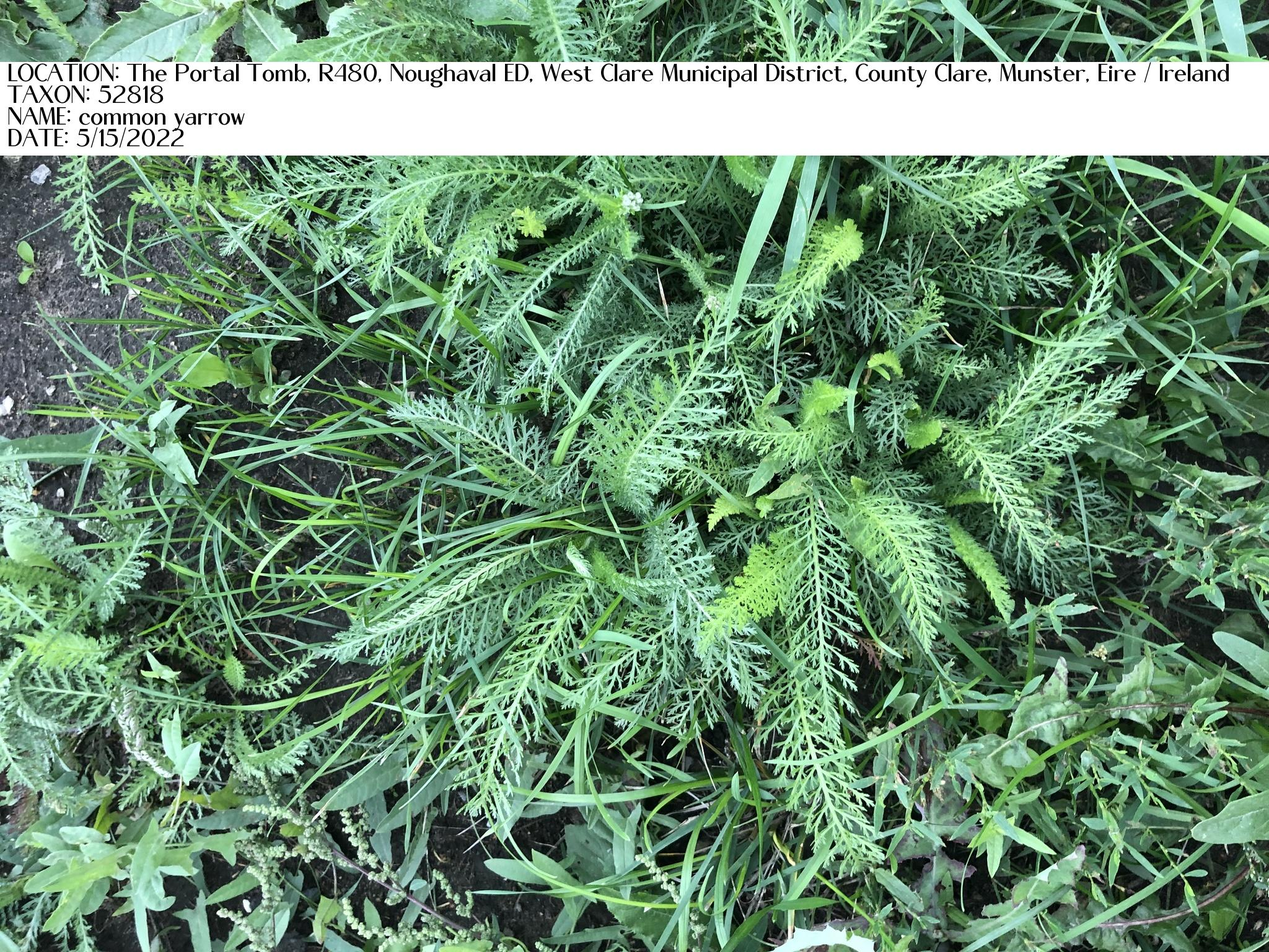
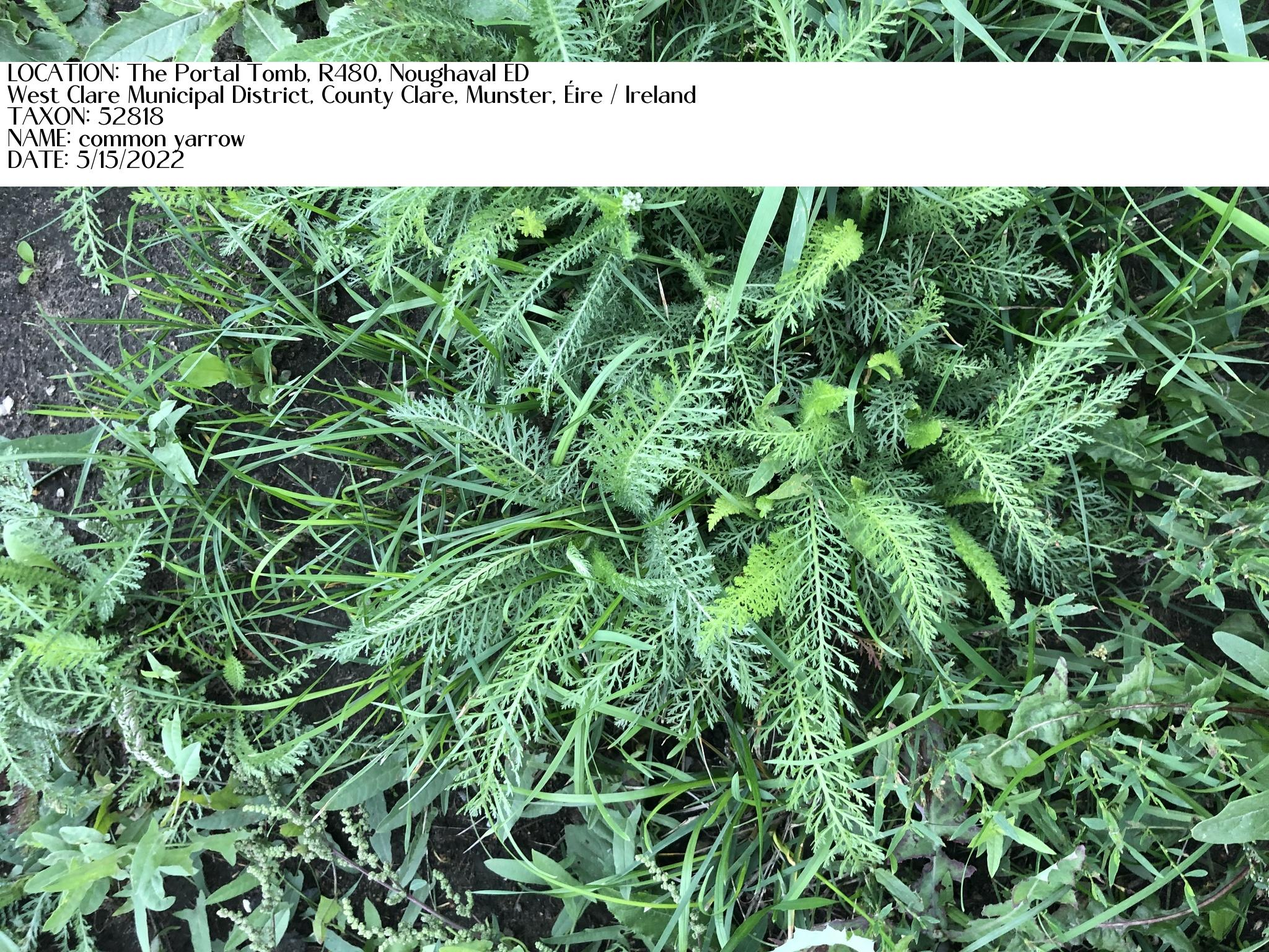
updated image text sizing and tested

Changed region(s): [[0.0, 0.0625, 1.0, 0.2188]]

diff --git a/modules/image_handler/__init__.py b/modules/image_handler/__init__.py
@@ -31,7 +31,7 @@ def determine_text_size(size):
 
 
 def determine_rectangle_size(size):
-    return (width, 250)
+    return (width, 300)
 
 
 def determine_text_position(size):
@@ -46,7 +46,7 @@ def built_image_text(location, taxon, name, date_of_image):
     return f' LOCATION: {location} \n TAXON: {taxon} \n NAME: {name} \n DATE: {date_of_image}'
 
 
-def write_to_image(image_location, image_destination, text_to_write, size):
+def write_to_image(image_location, image_destination, text_to_write, size, debug = None):
     rectangle_size = determine_rectangle_size(size)
     text_size = determine_text_size(size)
     position = determine_position(size)
@@ -56,6 +56,8 @@ def write_to_image(image_location, image_destination, text_to_write, size):
     d1 = ImageDraw.Draw(img)
     d1.rectangle((rectangle_size, position), fill="white")
     d1.text(text_position, text_to_write, font=ImageFont.truetype(FONT_LOCATION, text_size), fill=(0, 0, 0))
+    if(debug == 'show'):
+        img.show()
     img.save(image_destination)
 
 

diff --git a/iNatScraper_v1.0_dirty.py b/iNatScraper_v1.0_dirty.py
@@ -76,6 +76,8 @@ def get_paged_identifications(taxon_id, items_per_page):
 
 example_lat_long_example = "53.0483695,-9.1397471667"
 example_date_of_image = f'5/15/2022'
+example_imageLocation = './content/images/original_1.jpg'
+example_imageDestinationLocation = './content/images/original_2.jpg'
 
 testing = image_handler.built_image_text(image_handler.determine_location(example_lat_long_example), 52818, 'common yarrow', example_date_of_image)
-print(testing)
+image_handler.write_to_image(example_imageLocation, example_imageDestinationLocation, testing, (100, 100), 'show')
